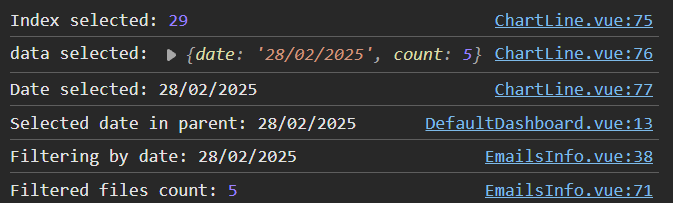
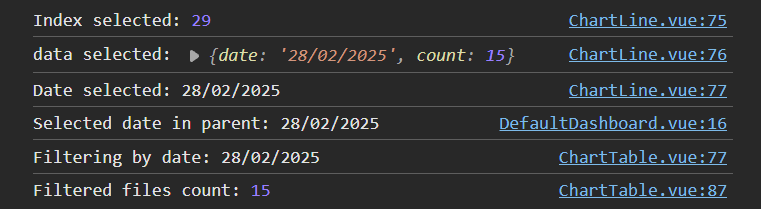
add ChartTable

Changed region(s): [[0.0, 0.0591, 0.9673, 0.532], [0.0, 0.5616, 0.9673, 0.9754]]

diff --git a/charts/ChartTable.md b/charts/ChartTable.md
@@ -1,0 +1,227 @@
+# Create Table with expand:
+
+### ChartTable.vue(Script):
+```ts
+// Interfaces for type safety ``Mail`` represents an individual email.
+interface Mail {
+  _id?: string | number;
+  from: string ;
+  date: string ;
+  ip_address: string;
+  total?: string;
+  details?: Mail[] ;
+}
+
+// define the headers for the table
+interface TableHeader{
+  title: string,
+  key: keyof Mail,
+  align?: "start" | "center" | "end",
+  sortable?: boolean
+}
+
+// Reactive state for fetched data
+const fileData = ref<Mail[]>([]);
+const filteredData = ref<Mail[]>([]);
+
+// prop teh selected date from chartLine
+const props = defineProps({
+  selectedDate: {
+    type: String,
+    default: ''
+  }
+});
+
+// Fetch function
+const fetchFileData = async () => {
+  try {
+    const res = await axios.get(import.meta.env.VITE_API_URL + '/info/file-data');
+    fileData.value = res.data;
+    filterDataByDate();
+  } catch (error) {
+    console.log('Error fetching data:', error);
+  }
+};
+
+// Headers for the table
+const headers = computed<TableHeader[]>(() => [
+  { title: `${filteredData.value.length} FROM`, key: "from", align: "start", sortable: false, width: "60%" },
+  { title: "DATE", key: "date", align: "center", sortable: true, width: "10%"   },
+  { title: "IP ADDRESS", key: "ip_address", align: "center", sortable: false, width: "10%"   },
+  { title: "TOTAL", key: "total", align: "center", sortable: false, width: "10%" },
+  { title: "DETAILS", key: "details", align: "center", sortable: false, width: "10%"   },
+])
+
+
+// Function to format timestamp to dd/mm/yyyy
+const formatTimestampToDate = (timestamp: number) => {
+  return new Intl.DateTimeFormat("fr-FR", {
+    day: "2-digit",
+    month: "2-digit",
+    year: "numeric",
+  }).format(new Date(timestamp * 1000));
+};
+
+// Filter data by date
+const filterDataByDate = () => {
+  console.log('Filtering by date:', props.selectedDate);
+
+  // Get today's date in dd/mm/yyyy Format
+  const todayDate = formatTimestampToDate(Date.now() / 1000);
+
+  // If selectedDate is set, it filters emails that match that date, else it shows today's emails.
+  filteredData.value = fileData.value.filter(file => {
+    const fileDate = formatTimestampToDate(Number(file.date));
+    return props.selectedDate ? fileDate === props.selectedDate : fileDate === todayDate;
+  });
+
+  // console.log(filteredData.value)
+  console.log('Filtered files count:', filteredData.value.length);
+};
+
+// **Group data only for duplicated IPs**
+const groupedData = computed((): (Mail )[] => {
+  const ipCount: Record<string, number> = {}; // will be like "192.168.1.1": 1 strin with number
+  const groups: Record<string, Mail[]> = {}; // "192.168.1.2":[ { _id: 2, from: "", date: "",....} ] string with array
+  const uniqueData: Mail[] = [];
+
+  // Count occurrences of each IP
+  filteredData.value.forEach((file) => {
+    ipCount[file.ip_address] = (ipCount[file.ip_address] || 0) + 1;
+    console.log(file.ip_address)
+    console.log('test',ipCount[file.ip_address])
+    console.log('TESTTTTTT',ipCount)
+  });
+
+  // Separate unique and duplicate IPs
+  filteredData.value.forEach((file) => {
+    if (ipCount[file.ip_address] > 1) {
+      if (!groups[file.ip_address]) {
+        groups[file.ip_address] = [];
+      }
+      groups[file.ip_address].push(file);
+    } else {
+      uniqueData.push(file); // Keep unique emails with _id
+    }
+  });
+
+  // Convert grouped IPs into a structured array
+  const groupedArray: Mail[] = Object.keys(groups).map((ip) => ({
+    ip_address: ip,
+    from: groups[ip][0].from,
+    date: groups[ip][0].date,
+    total: groups[ip].length.toString(),
+    details: [...groups[ip]],  // This is an array of duplicates, Ensure it's always Mail[]
+  }));
+
+  console.log(groupedArray);
+
+  return [...uniqueData, ...groupedArray]; // Combine unique and grouped data
+});
+
+// Expanded row state
+const expanded = ref<string | null>(null)
+
+// Computed for expanded item
+const expandedItem = computed(() => 
+  groupedData.value.find(item => item.ip_address === expanded.value)
+)
+
+// Toggle expand method
+const toggleExpand = (item: Mail) => {
+  expanded.value = expanded.value === item.ip_address ? null : item.ip_address
+}
+
+// format to convert the date in the table from timestamp to human readable
+const formatDate = (timestamp: string | number) => {
+  return new Intl.DateTimeFormat("fr-FR", {
+    day: "2-digit",
+    month: "2-digit",
+    year: "numeric",
+    hour: "2-digit",
+    minute: "2-digit",
+    second: "2-digit"
+  }).format(new Date(Number(timestamp) * 1000));
+};
+
+// Watch for changes in selectedDate prop
+watch(() => props.selectedDate, () => {
+  filterDataByDate();
+});
+
+onMounted(fetchFileData);
+```
+
+``filedata``: Holds all fetched emails
+
+``filteredData``: Holds emails filtered by selected Date
+
+``Fetch``: calls ``filterDataByDate`` to apply date filtering
+
+``selectedDate``: is passed from ``DefaultDashboard`` (Parent)
+
+## filterDataByDate Function():
+- Convert the date from timestamp to human Readable
+- If ``selectedDate`` is set, it filters emails that match that date. (passed the date to ``filteredData.value``)
+- If ``selectedDate`` is not set, it shows today's emails. (passed the date to ``filteredData.value``)
+
+## GroupedData Function():
+- ``ipCount``: Stores how many times each IP address appears.
+- ``groups``: Stores emails grouped by IP address.
+- ``uniqueData``: Stores emails that have a unique IP.
+
+```js
+// ipCount will be like "192.168.1.1": 1 string with number
+filteredData.value.forEach((file) => {
+  ipCount[file.ip_address] = (ipCount[file.ip_address] || 0) + 1;
+});
+```
+
+1. ``file.ip_address`` is used as a key in ``ipCount`` (an object tracking occurrences of each IP).
+2. If ``file.ip_address`` already exists in ``ipCount``:
+    - It retrieves the current count and adds ``1`` to it.
+3. If ``file.ip_address`` does not exist in ``ipCount``:
+    - ``ipCount[file.ip_address]`` is ``undefined``, so it defaults to **0**, then adds **1**.
+
+        ---
+
+```js
+filteredData.value.forEach((file) => {
+  if (ipCount[file.ip_address] > 1) {
+    if (!groups[file.ip_address]) {
+      groups[file.ip_address] = [];
+    }
+    groups[file.ip_address].push(file);
+  } else {
+    uniqueData.push(file);
+  }
+});
+```
+- If an IP appears more than once, it is added to ``groups``.
+- If an IP appears only once, it is added to ``uniqueData``.
+
+    ---
+
+```js
+const groupedArray: GroupedMail[] = Object.keys(groups).map((ip) => ({
+  ip_address: ip,
+  from: groups[ip][0].from,
+  date: groups[ip][0].date,
+  total: groups[ip].length.toString(),
+  details: [...groups[ip]], // Ensure it's always an array
+}));
+```
+
+- Each grouped IP becomes a GroupedMail object.
+- total field stores the number of emails.
+- details field stores all emails under that IP.
+
+## Expanding:
+```js
+const expandedItem = computed(() => 
+  groupedData.value.find(item => item.ip_address === expanded.value)
+);
+```
+- Finds the expanded row by matching ip_address.
+- If expanded.value contains an IP address, it searches groupedData for an item with the same ip_address and returns it.
+- If no row is expanded (expanded = null), it returns undefined.
